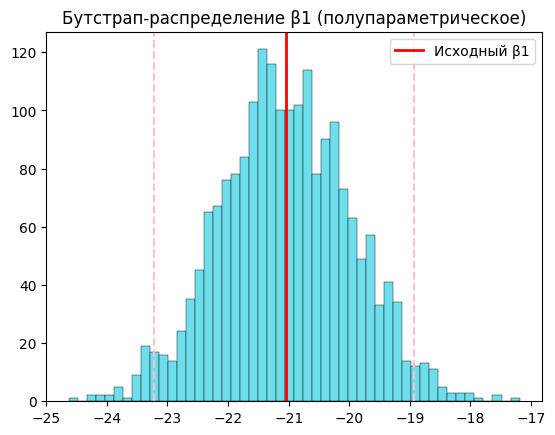
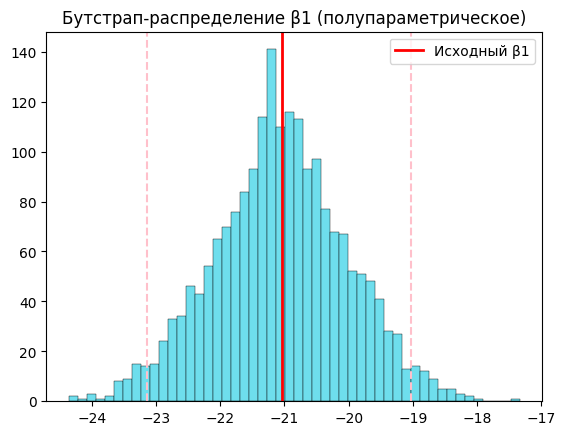
Update notebook

diff --git a/_site/bootstrap.html b/_site/bootstrap.html
@@ -198,7 +198,7 @@ pre > code.sourceCode > span > a:first-child::before { text-decoration: underlin
 <li>NumWebVisitsMonth — количество посещений веб-сайта компании за последний месяц</li>
 <li>Recency — количество дней с момента последней покупки</li>
 </ul>
-<div id="8d13b820" class="cell" data-execution_count="5">
+<div id="8d13b820" class="cell" data-execution_count="1">
 <div class="code-copy-outer-scaffold"><div class="sourceCode cell-code" id="cb1"><pre class="sourceCode python code-with-copy"><code class="sourceCode python"><span id="cb1-1"><a href="#cb1-1" aria-hidden="true" tabindex="-1"></a><span class="co"># импортируем библиотеки</span></span>
 <span id="cb1-2"><a href="#cb1-2" aria-hidden="true" tabindex="-1"></a><span class="im">import</span> pandas <span class="im">as</span> pd</span>
 <span id="cb1-3"><a href="#cb1-3" aria-hidden="true" tabindex="-1"></a><span class="im">import</span> numpy <span class="im">as</span> np</span>
@@ -206,11 +206,11 @@ pre > code.sourceCode > span > a:first-child::before { text-decoration: underlin
 <span id="cb1-5"><a href="#cb1-5" aria-hidden="true" tabindex="-1"></a><span class="im">import</span> seaborn <span class="im">as</span> sns</span>
 <span id="cb1-6"><a href="#cb1-6" aria-hidden="true" tabindex="-1"></a><span class="im">from</span> sklearn.linear_model <span class="im">import</span> LinearRegression</span></code></pre></div><button title="Copy to Clipboard" class="code-copy-button"><i class="bi"></i></button></div>
 </div>
-<div id="105c7add" class="cell" data-execution_count="7">
+<div id="105c7add" class="cell" data-execution_count="2">
 <div class="code-copy-outer-scaffold"><div class="sourceCode cell-code" id="cb2"><pre class="sourceCode python code-with-copy"><code class="sourceCode python"><span id="cb2-1"><a href="#cb2-1" aria-hidden="true" tabindex="-1"></a><span class="co"># импортируем данные</span></span>
 <span id="cb2-2"><a href="#cb2-2" aria-hidden="true" tabindex="-1"></a>data <span class="op">=</span> pd.read_csv(<span class="st">'/Users/alferova_tv/Documents/Statistics/marketing/archive/marketing_campaign.csv'</span>, sep<span class="op">=</span><span class="st">';'</span>)</span>
 <span id="cb2-3"><a href="#cb2-3" aria-hidden="true" tabindex="-1"></a>data</span></code></pre></div><button title="Copy to Clipboard" class="code-copy-button"><i class="bi"></i></button></div>
-<div class="cell-output cell-output-display" data-execution_count="7">
+<div class="cell-output cell-output-display" data-execution_count="2">
 <div>
 
 
@@ -518,7 +518,7 @@ pre > code.sourceCode > span > a:first-child::before { text-decoration: underlin
 <p>Используем его в регрессионном анализе. Проверим, есть ли зависимость между количеством детей в семье клиента и суммой, потраченной им на сладкие продукты за последние 2 года.<br>
 Интуитивно хочется предположить, что такая зависимость есть: больше детей - больше сладостей (линейная регрессия)</p>
 <p>То есть, предполагаем, что существует такая функция y = 𝛽₀ + 𝛽₁x₁ + ⋯ + 𝛽ᵣxᵣ + 𝜀, где y - сумма трат на сладкое, x - количество детей в семье, 𝛽 - коэффициенты, 𝜀 - погрешность</p>
-<div id="7e3bc988" class="cell" data-execution_count="1">
+<div id="7e3bc988" class="cell" data-execution_count="3">
 <div class="code-copy-outer-scaffold"><div class="sourceCode cell-code" id="cb3"><pre class="sourceCode python code-with-copy"><code class="sourceCode python"><span id="cb3-1"><a href="#cb3-1" aria-hidden="true" tabindex="-1"></a>data[<span class="st">'num_children'</span>] <span class="op">=</span> data[<span class="st">'Kidhome'</span>] <span class="op">+</span> data[<span class="st">'Teenhome'</span>] <span class="co"># новый столбец - общее количество детей</span></span>
 <span id="cb3-2"><a href="#cb3-2" aria-hidden="true" tabindex="-1"></a></span>
 <span id="cb3-3"><a href="#cb3-3" aria-hidden="true" tabindex="-1"></a><span class="co"># создаём массивы из наших полей</span></span>
@@ -534,26 +534,18 @@ pre > code.sourceCode > span > a:first-child::before { text-decoration: underlin
 <span id="cb3-13"><a href="#cb3-13" aria-hidden="true" tabindex="-1"></a><span class="bu">print</span>(<span class="st">"Slope (β1):"</span>, model.coef_[<span class="dv">0</span>])</span>
 <span id="cb3-14"><a href="#cb3-14" aria-hidden="true" tabindex="-1"></a></span>
 <span id="cb3-15"><a href="#cb3-15" aria-hidden="true" tabindex="-1"></a>y_pred <span class="op">=</span> model.predict(x)</span></code></pre></div><button title="Copy to Clipboard" class="code-copy-button"><i class="bi"></i></button></div>
-<div class="cell-output cell-output-error">
-<div class="ansi-escaped-output">
-<pre><span class="ansi-red-fg">---------------------------------------------------------------------------</span>
-<span class="ansi-red-fg">NameError</span>                                 Traceback (most recent call last)
-Cell <span class="ansi-green-fg">In[1], line 1</span>
-<span class="ansi-green-fg">----&gt; 1</span> data[<span style="color:rgb(175,0,0)">'</span><span style="color:rgb(175,0,0)">num_children</span><span style="color:rgb(175,0,0)">'</span>] <span style="color:rgb(98,98,98)">=</span> <span class="ansi-yellow-bg">data</span>[<span style="color:rgb(175,0,0)">'</span><span style="color:rgb(175,0,0)">Kidhome</span><span style="color:rgb(175,0,0)">'</span>] <span style="color:rgb(98,98,98)">+</span> data[<span style="color:rgb(175,0,0)">'</span><span style="color:rgb(175,0,0)">Teenhome</span><span style="color:rgb(175,0,0)">'</span>] <span style="font-style:italic;color:rgb(95,135,135)"># новый столбец - общее количество детей</span>
-<span class="ansi-green-fg ansi-bold">      3</span> <span style="font-style:italic;color:rgb(95,135,135)"># создаём массивы из наших полей</span>
-<span class="ansi-green-fg ansi-bold">      4</span> x <span style="color:rgb(98,98,98)">=</span> np<span style="color:rgb(98,98,98)">.</span>array(data[<span style="color:rgb(175,0,0)">'</span><span style="color:rgb(175,0,0)">num_children</span><span style="color:rgb(175,0,0)">'</span>])<span style="color:rgb(98,98,98)">.</span>reshape(<span style="color:rgb(98,98,98)">-</span><span style="color:rgb(98,98,98)">1</span>, <span style="color:rgb(98,98,98)">1</span>) <span style="font-style:italic;color:rgb(95,135,135)"># независимая переменная</span>
-
-<span class="ansi-red-fg">NameError</span>: name 'data' is not defined</pre>
-</div>
+<div class="cell-output cell-output-stdout">
+<pre><code>Intercept (β0): 47.05801280479697
+Slope (β1): -21.037552222989763</code></pre>
 </div>
 </div>
 <p>Итерпретация: Результат получился неожиданный: количество детей, вопреки интуитивным догадкам, уменьшает траты клиента на сладкое.<br>
 Или буквально: траты на сладкое = 47.06 – 21.04 * число_детей - средние траты на сладости у клиента без детей - примерно 47 - каждый дополнительный ребёнок уменьшает траты на сладости примерно на 21</p>
 <p>Такой результат может говорить о том, что семьи с детьми больше экономят и покупают в основном базовые продукты (молоко, хлеб, мясо). Также возможно, что в данных просто мало детей</p>
-<div id="90282325" class="cell">
-<div class="code-copy-outer-scaffold"><div class="sourceCode cell-code" id="cb4"><pre class="sourceCode python code-with-copy"><code class="sourceCode python"><span id="cb4-1"><a href="#cb4-1" aria-hidden="true" tabindex="-1"></a><span class="bu">print</span>(data.groupby([<span class="st">'num_children'</span>])[<span class="st">'ID'</span>].count())</span>
-<span id="cb4-2"><a href="#cb4-2" aria-hidden="true" tabindex="-1"></a><span class="bu">print</span>()</span>
-<span id="cb4-3"><a href="#cb4-3" aria-hidden="true" tabindex="-1"></a><span class="bu">print</span>(data.groupby(<span class="st">'num_children'</span>)[<span class="st">'MntSweetProducts'</span>].mean())</span></code></pre></div><button title="Copy to Clipboard" class="code-copy-button"><i class="bi"></i></button></div>
+<div id="90282325" class="cell" data-execution_count="4">
+<div class="code-copy-outer-scaffold"><div class="sourceCode cell-code" id="cb5"><pre class="sourceCode python code-with-copy"><code class="sourceCode python"><span id="cb5-1"><a href="#cb5-1" aria-hidden="true" tabindex="-1"></a><span class="bu">print</span>(data.groupby([<span class="st">'num_children'</span>])[<span class="st">'ID'</span>].count())</span>
+<span id="cb5-2"><a href="#cb5-2" aria-hidden="true" tabindex="-1"></a><span class="bu">print</span>()</span>
+<span id="cb5-3"><a href="#cb5-3" aria-hidden="true" tabindex="-1"></a><span class="bu">print</span>(data.groupby(<span class="st">'num_children'</span>)[<span class="st">'MntSweetProducts'</span>].mean())</span></code></pre></div><button title="Copy to Clipboard" class="code-copy-button"><i class="bi"></i></button></div>
 <div class="cell-output cell-output-stdout">
 <pre><code>num_children
 0     638
@@ -571,29 +563,29 @@ Name: MntSweetProducts, dtype: float64</code></pre>
 </div>
 </div>
 <p>И правда, троих детей имеют всего 2,3% клиентов, и с увеличением детей уменьшается средняя сумма трат на сладости</p>
-<div id="7d39d2ed" class="cell">
-<div class="code-copy-outer-scaffold"><div class="sourceCode cell-code" id="cb6"><pre class="sourceCode python code-with-copy"><code class="sourceCode python"><span id="cb6-1"><a href="#cb6-1" aria-hidden="true" tabindex="-1"></a><span class="co"># посмотрим качество модели</span></span>
-<span id="cb6-2"><a href="#cb6-2" aria-hidden="true" tabindex="-1"></a><span class="bu">print</span>(model.score(x, y))</span></code></pre></div><button title="Copy to Clipboard" class="code-copy-button"><i class="bi"></i></button></div>
+<div id="7d39d2ed" class="cell" data-execution_count="5">
+<div class="code-copy-outer-scaffold"><div class="sourceCode cell-code" id="cb7"><pre class="sourceCode python code-with-copy"><code class="sourceCode python"><span id="cb7-1"><a href="#cb7-1" aria-hidden="true" tabindex="-1"></a><span class="co"># посмотрим качество модели</span></span>
+<span id="cb7-2"><a href="#cb7-2" aria-hidden="true" tabindex="-1"></a><span class="bu">print</span>(model.score(x, y))</span></code></pre></div><button title="Copy to Clipboard" class="code-copy-button"><i class="bi"></i></button></div>
 <div class="cell-output cell-output-stdout">
 <pre><code>0.14679404935587625</code></pre>
 </div>
 </div>
 <p>Количество детей объясняет примерно 14.7% вариации трат на сладкие продукты. Есть слабая зависимость, но для маркетинговых данных, где поведение клиента зависит от множества факторов это нормально.<br>
 Вывод: есть зависимость, но она слабая</p>
-<div id="0d8a0a3c" class="cell">
-<div class="code-copy-outer-scaffold"><div class="sourceCode cell-code" id="cb8"><pre class="sourceCode python code-with-copy"><code class="sourceCode python"><span id="cb8-1"><a href="#cb8-1" aria-hidden="true" tabindex="-1"></a><span class="co"># построим диаграмму рассеяния с линией регрессии</span></span>
-<span id="cb8-2"><a href="#cb8-2" aria-hidden="true" tabindex="-1"></a>plt.figure(figsize<span class="op">=</span>(<span class="dv">4</span>,<span class="dv">4</span>))</span>
-<span id="cb8-3"><a href="#cb8-3" aria-hidden="true" tabindex="-1"></a></span>
-<span id="cb8-4"><a href="#cb8-4" aria-hidden="true" tabindex="-1"></a>plt.scatter(x, y, alpha<span class="op">=</span><span class="fl">0.4</span>)</span>
-<span id="cb8-5"><a href="#cb8-5" aria-hidden="true" tabindex="-1"></a></span>
-<span id="cb8-6"><a href="#cb8-6" aria-hidden="true" tabindex="-1"></a>plt.plot(x, y_pred, color<span class="op">=</span><span class="st">'red'</span>)</span>
-<span id="cb8-7"><a href="#cb8-7" aria-hidden="true" tabindex="-1"></a></span>
-<span id="cb8-8"><a href="#cb8-8" aria-hidden="true" tabindex="-1"></a>plt.xticks([<span class="dv">0</span>, <span class="dv">1</span>, <span class="dv">2</span>, <span class="dv">3</span>])</span>
-<span id="cb8-9"><a href="#cb8-9" aria-hidden="true" tabindex="-1"></a>plt.xlabel(<span class="st">'Количество детей'</span>)</span>
-<span id="cb8-10"><a href="#cb8-10" aria-hidden="true" tabindex="-1"></a>plt.ylabel(<span class="st">'Траты на сладкие продукты'</span>)</span>
-<span id="cb8-11"><a href="#cb8-11" aria-hidden="true" tabindex="-1"></a>plt.title(<span class="st">'Зависимость трат на сладкое от количества детей'</span>) </span>
-<span id="cb8-12"><a href="#cb8-12" aria-hidden="true" tabindex="-1"></a></span>
-<span id="cb8-13"><a href="#cb8-13" aria-hidden="true" tabindex="-1"></a>plt.show()</span></code></pre></div><button title="Copy to Clipboard" class="code-copy-button"><i class="bi"></i></button></div>
+<div id="0d8a0a3c" class="cell" data-execution_count="6">
+<div class="code-copy-outer-scaffold"><div class="sourceCode cell-code" id="cb9"><pre class="sourceCode python code-with-copy"><code class="sourceCode python"><span id="cb9-1"><a href="#cb9-1" aria-hidden="true" tabindex="-1"></a><span class="co"># построим диаграмму рассеяния с линией регрессии</span></span>
+<span id="cb9-2"><a href="#cb9-2" aria-hidden="true" tabindex="-1"></a>plt.figure(figsize<span class="op">=</span>(<span class="dv">4</span>,<span class="dv">4</span>))</span>
+<span id="cb9-3"><a href="#cb9-3" aria-hidden="true" tabindex="-1"></a></span>
+<span id="cb9-4"><a href="#cb9-4" aria-hidden="true" tabindex="-1"></a>plt.scatter(x, y, alpha<span class="op">=</span><span class="fl">0.4</span>)</span>
+<span id="cb9-5"><a href="#cb9-5" aria-hidden="true" tabindex="-1"></a></span>
+<span id="cb9-6"><a href="#cb9-6" aria-hidden="true" tabindex="-1"></a>plt.plot(x, y_pred, color<span class="op">=</span><span class="st">'red'</span>)</span>
+<span id="cb9-7"><a href="#cb9-7" aria-hidden="true" tabindex="-1"></a></span>
+<span id="cb9-8"><a href="#cb9-8" aria-hidden="true" tabindex="-1"></a>plt.xticks([<span class="dv">0</span>, <span class="dv">1</span>, <span class="dv">2</span>, <span class="dv">3</span>])</span>
+<span id="cb9-9"><a href="#cb9-9" aria-hidden="true" tabindex="-1"></a>plt.xlabel(<span class="st">'Количество детей'</span>)</span>
+<span id="cb9-10"><a href="#cb9-10" aria-hidden="true" tabindex="-1"></a>plt.ylabel(<span class="st">'Траты на сладкие продукты'</span>)</span>
+<span id="cb9-11"><a href="#cb9-11" aria-hidden="true" tabindex="-1"></a>plt.title(<span class="st">'Зависимость трат на сладкое от количества детей'</span>) </span>
+<span id="cb9-12"><a href="#cb9-12" aria-hidden="true" tabindex="-1"></a></span>
+<span id="cb9-13"><a href="#cb9-13" aria-hidden="true" tabindex="-1"></a>plt.show()</span></code></pre></div><button title="Copy to Clipboard" class="code-copy-button"><i class="bi"></i></button></div>
 <div class="cell-output cell-output-display">
 <div>
 <figure class="figure">
@@ -604,52 +596,50 @@ Name: MntSweetProducts, dtype: float64</code></pre>
 </div>
 <p>Теперь усилим характеристики регрессии с помощью полупараметрического бутстрапа.<br>
 Для данного случая он подходиит больше других, так как x представляет собой несколько категорий (0, 1, 2, 3) и в бутстрап-выборках частоты категорий будут случайными, это будет искажать реальное распределение. В полупараметрическом бутстрапе мы будем бутстрапировать не сами выборки, а ошибку 𝜀,</p>
-<p>Пошагово:<br> 1. Находим остатки 𝜀<br><br>
-2. Перемешиваем остатки<br><br>
-3. Создаём новые значения y* = ŷ + ε<em><br> 4. Обучаем регрессию на данных (x, y</em>)<br> 5. Сохраняем β₁*<br> 6. Повторяем 2000<br></p>
+<p>Пошагово:<br> 1. Находим остатки 𝜀<br> 2. Перемешиваем остатки<br> 3. Создаём новые значения y* = ŷ + ε<em><br> 4. Обучаем регрессию на данных (x, y</em>)<br> 5. Сохраняем β₁*<br> 6. Повторяем 2000<br></p>
 <p>В итоге получаем:<br> - распределение β₁<br> - доверительный интервал<br> - вероятность того, что β₁ &lt; 0<br></p>
-<div id="f209f4b7" class="cell">
-<div class="code-copy-outer-scaffold"><div class="sourceCode cell-code" id="cb9"><pre class="sourceCode python code-with-copy"><code class="sourceCode python"><span id="cb9-1"><a href="#cb9-1" aria-hidden="true" tabindex="-1"></a>residuals <span class="op">=</span> y <span class="op">-</span> y_pred <span class="co"># остатки модели</span></span>
-<span id="cb9-2"><a href="#cb9-2" aria-hidden="true" tabindex="-1"></a></span>
-<span id="cb9-3"><a href="#cb9-3" aria-hidden="true" tabindex="-1"></a>B <span class="op">=</span> <span class="dv">2000</span></span>
-<span id="cb9-4"><a href="#cb9-4" aria-hidden="true" tabindex="-1"></a>boot_betas <span class="op">=</span> []</span>
-<span id="cb9-5"><a href="#cb9-5" aria-hidden="true" tabindex="-1"></a>n <span class="op">=</span> <span class="bu">len</span>(y)</span>
-<span id="cb9-6"><a href="#cb9-6" aria-hidden="true" tabindex="-1"></a></span>
-<span id="cb9-7"><a href="#cb9-7" aria-hidden="true" tabindex="-1"></a><span class="cf">for</span> _ <span class="kw">in</span> <span class="bu">range</span>(B):</span>
-<span id="cb9-8"><a href="#cb9-8" aria-hidden="true" tabindex="-1"></a>    <span class="co"># случайная выборка остатков с повторением</span></span>
-<span id="cb9-9"><a href="#cb9-9" aria-hidden="true" tabindex="-1"></a>    eps_star <span class="op">=</span> np.random.choice(residuals, size<span class="op">=</span>n, replace<span class="op">=</span><span class="va">True</span>)</span>
-<span id="cb9-10"><a href="#cb9-10" aria-hidden="true" tabindex="-1"></a>    </span>
-<span id="cb9-11"><a href="#cb9-11" aria-hidden="true" tabindex="-1"></a>    <span class="co"># генерируем новые y*</span></span>
-<span id="cb9-12"><a href="#cb9-12" aria-hidden="true" tabindex="-1"></a>    y_star <span class="op">=</span> y_pred <span class="op">+</span> eps_star</span>
-<span id="cb9-13"><a href="#cb9-13" aria-hidden="true" tabindex="-1"></a>    </span>
-<span id="cb9-14"><a href="#cb9-14" aria-hidden="true" tabindex="-1"></a>    <span class="co"># обучаем регрессию на новых данных</span></span>
-<span id="cb9-15"><a href="#cb9-15" aria-hidden="true" tabindex="-1"></a>    model_star <span class="op">=</span> LinearRegression().fit(x, y_star)</span>
-<span id="cb9-16"><a href="#cb9-16" aria-hidden="true" tabindex="-1"></a>    boot_betas.append(model_star.coef_[<span class="dv">0</span>])</span>
-<span id="cb9-17"><a href="#cb9-17" aria-hidden="true" tabindex="-1"></a></span>
-<span id="cb9-18"><a href="#cb9-18" aria-hidden="true" tabindex="-1"></a>boot_betas <span class="op">=</span> np.array(boot_betas)</span>
-<span id="cb9-19"><a href="#cb9-19" aria-hidden="true" tabindex="-1"></a></span>
-<span id="cb9-20"><a href="#cb9-20" aria-hidden="true" tabindex="-1"></a><span class="co"># Доверительный интервал</span></span>
-<span id="cb9-21"><a href="#cb9-21" aria-hidden="true" tabindex="-1"></a>ci_low <span class="op">=</span> np.percentile(boot_betas, <span class="fl">2.5</span>)</span>
-<span id="cb9-22"><a href="#cb9-22" aria-hidden="true" tabindex="-1"></a>ci_high <span class="op">=</span> np.percentile(boot_betas, <span class="fl">97.5</span>)</span>
-<span id="cb9-23"><a href="#cb9-23" aria-hidden="true" tabindex="-1"></a></span>
-<span id="cb9-24"><a href="#cb9-24" aria-hidden="true" tabindex="-1"></a><span class="bu">print</span>(<span class="st">'95% бутстрапный доверительный интервал для β1:'</span>, (ci_low, ci_high))</span>
-<span id="cb9-25"><a href="#cb9-25" aria-hidden="true" tabindex="-1"></a><span class="bu">print</span>(<span class="st">'P(β1 &lt; 0):'</span>, np.mean(boot_betas <span class="op">&lt;</span> <span class="dv">0</span>))</span></code></pre></div><button title="Copy to Clipboard" class="code-copy-button"><i class="bi"></i></button></div>
+<div id="f209f4b7" class="cell" data-execution_count="7">
+<div class="code-copy-outer-scaffold"><div class="sourceCode cell-code" id="cb10"><pre class="sourceCode python code-with-copy"><code class="sourceCode python"><span id="cb10-1"><a href="#cb10-1" aria-hidden="true" tabindex="-1"></a>residuals <span class="op">=</span> y <span class="op">-</span> y_pred <span class="co"># остатки модели</span></span>
+<span id="cb10-2"><a href="#cb10-2" aria-hidden="true" tabindex="-1"></a></span>
+<span id="cb10-3"><a href="#cb10-3" aria-hidden="true" tabindex="-1"></a>B <span class="op">=</span> <span class="dv">2000</span></span>
+<span id="cb10-4"><a href="#cb10-4" aria-hidden="true" tabindex="-1"></a>boot_betas <span class="op">=</span> []</span>
+<span id="cb10-5"><a href="#cb10-5" aria-hidden="true" tabindex="-1"></a>n <span class="op">=</span> <span class="bu">len</span>(y)</span>
+<span id="cb10-6"><a href="#cb10-6" aria-hidden="true" tabindex="-1"></a></span>
+<span id="cb10-7"><a href="#cb10-7" aria-hidden="true" tabindex="-1"></a><span class="cf">for</span> _ <span class="kw">in</span> <span class="bu">range</span>(B):</span>
+<span id="cb10-8"><a href="#cb10-8" aria-hidden="true" tabindex="-1"></a>    <span class="co"># случайная выборка остатков с повторением</span></span>
+<span id="cb10-9"><a href="#cb10-9" aria-hidden="true" tabindex="-1"></a>    eps_star <span class="op">=</span> np.random.choice(residuals, size<span class="op">=</span>n, replace<span class="op">=</span><span class="va">True</span>)</span>
+<span id="cb10-10"><a href="#cb10-10" aria-hidden="true" tabindex="-1"></a>    </span>
+<span id="cb10-11"><a href="#cb10-11" aria-hidden="true" tabindex="-1"></a>    <span class="co"># генерируем новые y*</span></span>
+<span id="cb10-12"><a href="#cb10-12" aria-hidden="true" tabindex="-1"></a>    y_star <span class="op">=</span> y_pred <span class="op">+</span> eps_star</span>
+<span id="cb10-13"><a href="#cb10-13" aria-hidden="true" tabindex="-1"></a>    </span>
+<span id="cb10-14"><a href="#cb10-14" aria-hidden="true" tabindex="-1"></a>    <span class="co"># обучаем регрессию на новых данных</span></span>
+<span id="cb10-15"><a href="#cb10-15" aria-hidden="true" tabindex="-1"></a>    model_star <span class="op">=</span> LinearRegression().fit(x, y_star)</span>
+<span id="cb10-16"><a href="#cb10-16" aria-hidden="true" tabindex="-1"></a>    boot_betas.append(model_star.coef_[<span class="dv">0</span>])</span>
+<span id="cb10-17"><a href="#cb10-17" aria-hidden="true" tabindex="-1"></a></span>
+<span id="cb10-18"><a href="#cb10-18" aria-hidden="true" tabindex="-1"></a>boot_betas <span class="op">=</span> np.array(boot_betas)</span>
+<span id="cb10-19"><a href="#cb10-19" aria-hidden="true" tabindex="-1"></a></span>
+<span id="cb10-20"><a href="#cb10-20" aria-hidden="true" tabindex="-1"></a><span class="co"># Доверительный интервал</span></span>
+<span id="cb10-21"><a href="#cb10-21" aria-hidden="true" tabindex="-1"></a>ci_low <span class="op">=</span> np.percentile(boot_betas, <span class="fl">2.5</span>)</span>
+<span id="cb10-22"><a href="#cb10-22" aria-hidden="true" tabindex="-1"></a>ci_high <span class="op">=</span> np.percentile(boot_betas, <span class="fl">97.5</span>)</span>
+<span id="cb10-23"><a href="#cb10-23" aria-hidden="true" tabindex="-1"></a></span>
+<span id="cb10-24"><a href="#cb10-24" aria-hidden="true" tabindex="-1"></a><span class="bu">print</span>(<span class="st">'95% бутстрапный доверительный интервал для β1:'</span>, (ci_low, ci_high))</span>
+<span id="cb10-25"><a href="#cb10-25" aria-hidden="true" tabindex="-1"></a><span class="bu">print</span>(<span class="st">'P(β1 &lt; 0):'</span>, np.mean(boot_betas <span class="op">&lt;</span> <span class="dv">0</span>))</span></code></pre></div><button title="Copy to Clipboard" class="code-copy-button"><i class="bi"></i></button></div>
 <div class="cell-output cell-output-stdout">
-<pre><code>95% бутстрапный доверительный интервал для β1: (np.float64(-23.21931879471253), np.float64(-18.932129585990147))
+<pre><code>95% бутстрапный доверительный интервал для β1: (np.float64(-23.143110208934168), np.float64(-19.02197391401105))
 P(β1 &lt; 0): 1.0</code></pre>
 </div>
 </div>
 <p>Интервал полностью отрицательный и довольно узкий.<br>
 Ни в одной бутстрап-выборке коэффициент β1 не оказался большим либо равным 0</p>
 <p>Посроим график распределения коэффииентов β1</p>
-<div id="d075d1cf" class="cell">
-<div class="code-copy-outer-scaffold"><div class="sourceCode cell-code" id="cb11"><pre class="sourceCode python code-with-copy"><code class="sourceCode python"><span id="cb11-1"><a href="#cb11-1" aria-hidden="true" tabindex="-1"></a>plt.hist(boot_betas, bins<span class="op">=</span><span class="dv">50</span>, edgecolor<span class="op">=</span><span class="st">'black'</span>, linewidth<span class="op">=</span><span class="fl">0.3</span>, color<span class="op">=</span><span class="st">'#6EDEED'</span>)</span>
-<span id="cb11-2"><a href="#cb11-2" aria-hidden="true" tabindex="-1"></a>plt.axvline(beta1, color<span class="op">=</span><span class="st">'red'</span>, linewidth<span class="op">=</span><span class="dv">2</span>, label<span class="op">=</span><span class="st">'Исходный β1'</span>)</span>
-<span id="cb11-3"><a href="#cb11-3" aria-hidden="true" tabindex="-1"></a>plt.axvline(ci_low, color<span class="op">=</span><span class="st">'pink'</span>, linestyle<span class="op">=</span><span class="st">'--'</span>)</span>
-<span id="cb11-4"><a href="#cb11-4" aria-hidden="true" tabindex="-1"></a>plt.axvline(ci_high, color<span class="op">=</span><span class="st">'pink'</span>, linestyle<span class="op">=</span><span class="st">'--'</span>)</span>
-<span id="cb11-5"><a href="#cb11-5" aria-hidden="true" tabindex="-1"></a>plt.title(<span class="st">"Бутстрап-распределение β1 (полупараметрическое)"</span>)</span>
-<span id="cb11-6"><a href="#cb11-6" aria-hidden="true" tabindex="-1"></a>plt.legend()</span>
-<span id="cb11-7"><a href="#cb11-7" aria-hidden="true" tabindex="-1"></a>plt.show()</span></code></pre></div><button title="Copy to Clipboard" class="code-copy-button"><i class="bi"></i></button></div>
+<div id="d075d1cf" class="cell" data-execution_count="8">
+<div class="code-copy-outer-scaffold"><div class="sourceCode cell-code" id="cb12"><pre class="sourceCode python code-with-copy"><code class="sourceCode python"><span id="cb12-1"><a href="#cb12-1" aria-hidden="true" tabindex="-1"></a>plt.hist(boot_betas, bins<span class="op">=</span><span class="dv">50</span>, edgecolor<span class="op">=</span><span class="st">'black'</span>, linewidth<span class="op">=</span><span class="fl">0.3</span>, color<span class="op">=</span><span class="st">'#6EDEED'</span>)</span>
+<span id="cb12-2"><a href="#cb12-2" aria-hidden="true" tabindex="-1"></a>plt.axvline(beta1, color<span class="op">=</span><span class="st">'red'</span>, linewidth<span class="op">=</span><span class="dv">2</span>, label<span class="op">=</span><span class="st">'Исходный β1'</span>)</span>
+<span id="cb12-3"><a href="#cb12-3" aria-hidden="true" tabindex="-1"></a>plt.axvline(ci_low, color<span class="op">=</span><span class="st">'pink'</span>, linestyle<span class="op">=</span><span class="st">'--'</span>)</span>
+<span id="cb12-4"><a href="#cb12-4" aria-hidden="true" tabindex="-1"></a>plt.axvline(ci_high, color<span class="op">=</span><span class="st">'pink'</span>, linestyle<span class="op">=</span><span class="st">'--'</span>)</span>
+<span id="cb12-5"><a href="#cb12-5" aria-hidden="true" tabindex="-1"></a>plt.title(<span class="st">"Бутстрап-распределение β1 (полупараметрическое)"</span>)</span>
+<span id="cb12-6"><a href="#cb12-6" aria-hidden="true" tabindex="-1"></a>plt.legend()</span>
+<span id="cb12-7"><a href="#cb12-7" aria-hidden="true" tabindex="-1"></a>plt.show()</span></code></pre></div><button title="Copy to Clipboard" class="code-copy-button"><i class="bi"></i></button></div>
 <div class="cell-output cell-output-display">
 <div>
 <figure class="figure">
